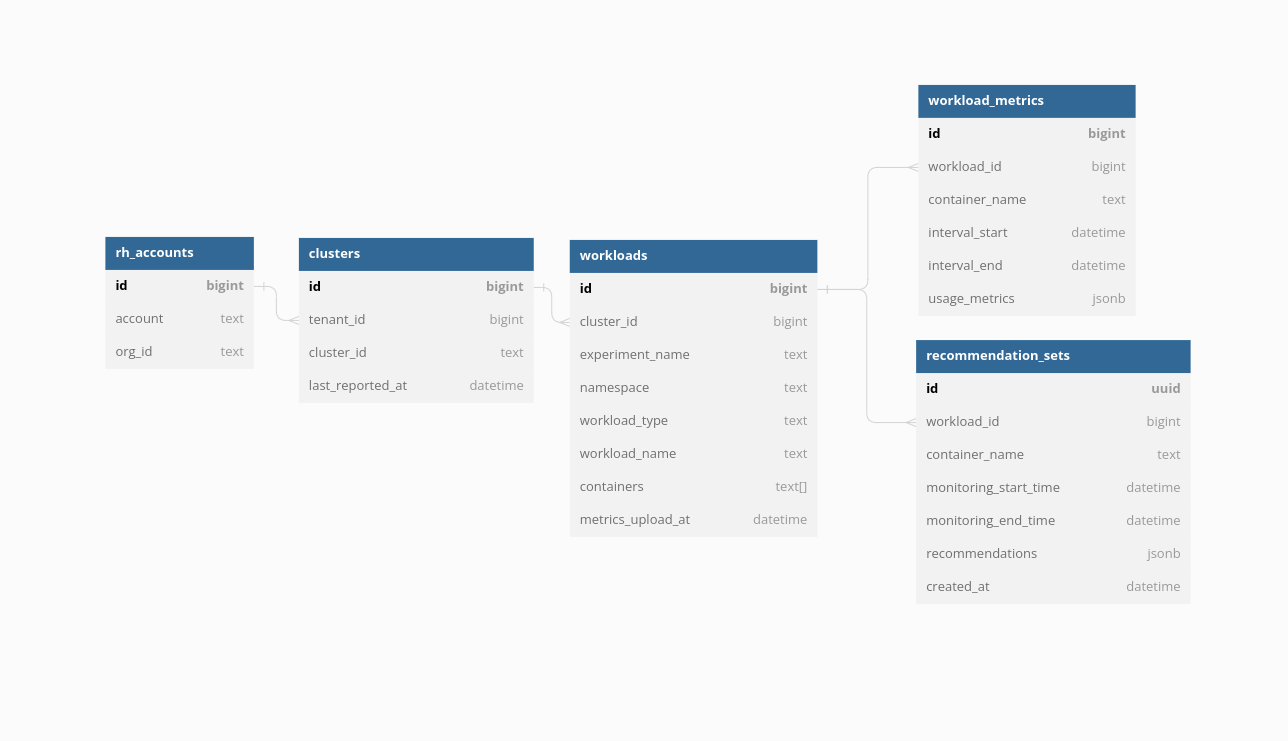
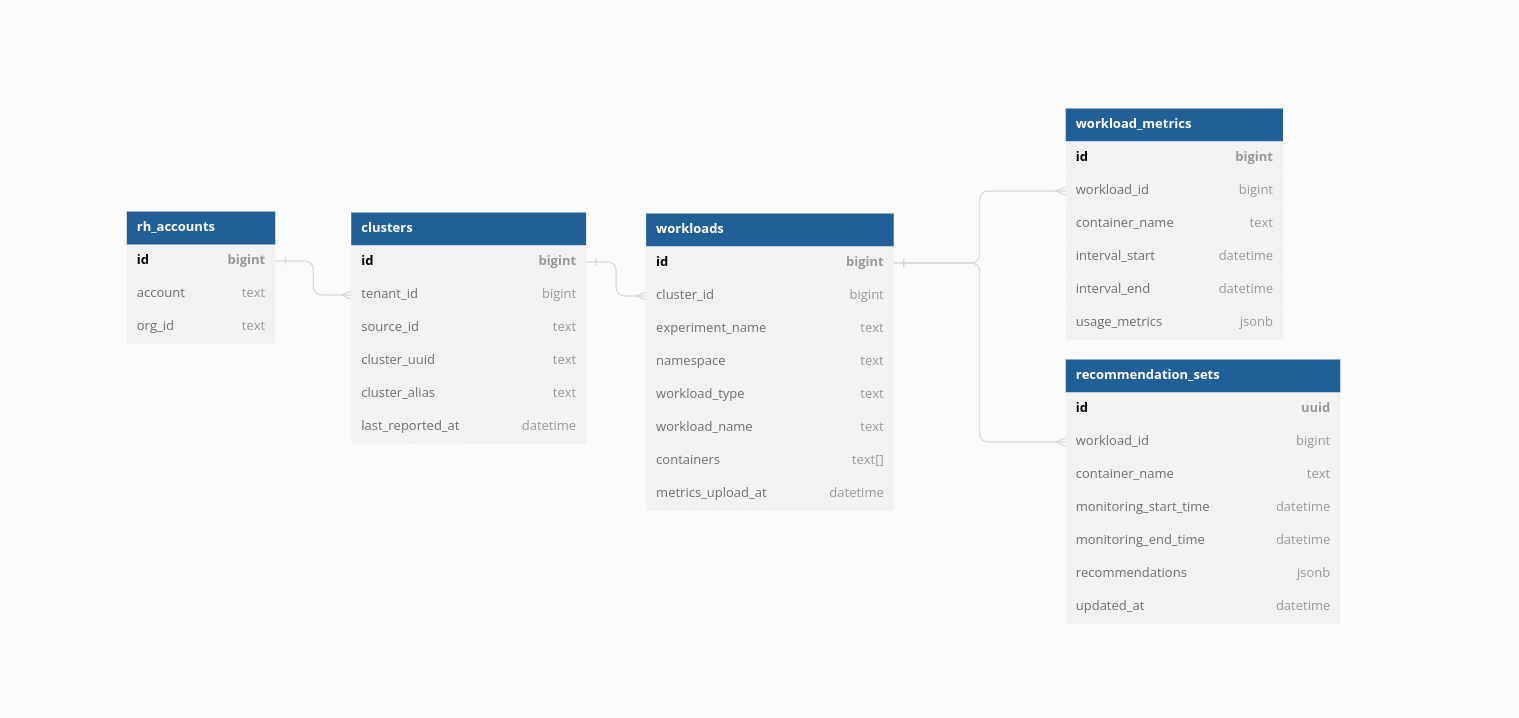
Fixes #RHIROS-1078 - Added new column for source_id

diff --git a/internal/api/handlers.go b/internal/api/handlers.go
@@ -1,10 +1,10 @@
 package api
 
 import (
+	"encoding/json"
 	"net/http"
 	"strconv"
 	"strings"
-	"encoding/json"
 
 	"github.com/google/uuid"
 	"github.com/labstack/echo/v4"
@@ -15,26 +15,26 @@ import (
 )
 
 var variationDummyObject = map[string]interface{}{
-    "limits": map[string]interface{}{
-        "cpu": map[string]interface{}{
-            "amount": 0.02,
-            "format": "cores",
-        },
-        "memory": map[string]interface{}{
-            "amount": 513900,
-            "format": "MiB",
-        },
-    },
-    "requests": map[string]interface{}{
-        "cpu": map[string]interface{}{
-            "amount": 0.01,
-            "format": "cores",
-        },
-        "memory": map[string]interface{}{
-            "amount": 4933.5,
-            "format": "MiB",
-        },
-    },
+	"limits": map[string]interface{}{
+		"cpu": map[string]interface{}{
+			"amount": 0.02,
+			"format": "cores",
+		},
+		"memory": map[string]interface{}{
+			"amount": 513900,
+			"format": "MiB",
+		},
+	},
+	"requests": map[string]interface{}{
+		"cpu": map[string]interface{}{
+			"amount": 0.01,
+			"format": "cores",
+		},
+		"memory": map[string]interface{}{
+			"amount": 4933.5,
+			"format": "MiB",
+		},
+	},
 }
 
 func GetRecommendationSetList(c echo.Context) error {
@@ -117,10 +117,10 @@ func GetRecommendationSetList(c echo.Context) error {
 
 		// Adding dummy variation object
 		var recommendationObject map[string]interface{}
-    	if err := json.Unmarshal(recommendation.Recommendations, &recommendationObject); err != nil {
+		if err := json.Unmarshal(recommendation.Recommendations, &recommendationObject); err != nil {
 			log.Error("unable to unmarshall duration based recommendations", error)
 		}
-		
+
 		longTermSection := recommendationObject["duration_based"].(map[string]interface{})["long_term"].(map[string]interface{})
 		shortTermSection := recommendationObject["duration_based"].(map[string]interface{})["short_term"].(map[string]interface{})
 		mediumTermSection := recommendationObject["duration_based"].(map[string]interface{})["medium_term"].(map[string]interface{})
@@ -129,6 +129,7 @@ func GetRecommendationSetList(c echo.Context) error {
 		longTermSection["variation"] = variationDummyObject
 
 		recommendationData["id"] = recommendation.ID
+		recommendationData["source_id"] = recommendation.Workload.Cluster.SourceId
 		recommendationData["cluster_uuid"] = recommendation.Workload.Cluster.ClusterUUID
 		recommendationData["cluster_alias"] = recommendation.Workload.Cluster.ClusterAlias
 		recommendationData["project"] = recommendation.Workload.Namespace
@@ -190,6 +191,7 @@ func GetRecommendationSet(c echo.Context) error {
 		longTermSection["variation"] = variationDummyObject
 
 		recommendationSlice["id"] = recommendationSet.ID
+		recommendationSlice["source_id"] = recommendationSet.Workload.Cluster.SourceId
 		recommendationSlice["cluster_uuid"] = recommendationSet.Workload.Cluster.ClusterUUID
 		recommendationSlice["cluster_alias"] = recommendationSet.Workload.Cluster.ClusterAlias
 		recommendationSlice["project"] = recommendationSet.Workload.Namespace

diff --git a/internal/model/cluster.go b/internal/model/cluster.go
@@ -12,6 +12,7 @@ type Cluster struct {
 	ID                uint `gorm:"primaryKey;not null;autoIncrement"`
 	TenantID          uint
 	RHAccount         RHAccount `gorm:"foreignKey:TenantID"`
+	SourceId          string    `gorm:"type:text;unique"`
 	ClusterUUID       string    `gorm:"type:text;unique"`
 	ClusterAlias      string    `gorm:"type:text;unique"`
 	LastReportedAt    time.Time
@@ -26,7 +27,7 @@ func (c *Cluster) AfterFind(tx *gorm.DB) error {
 func (c *Cluster) CreateCluster() error {
 	db := database.GetDB()
 	result := db.Clauses(clause.OnConflict{
-		Columns:   []clause.Column{{Name: "tenant_id"}, {Name: "cluster_uuid"}, {Name: "cluster_alias"}},
+		Columns:   []clause.Column{{Name: "tenant_id"}, {Name: "source_id"}, {Name: "cluster_uuid"}, {Name: "cluster_alias"}},
 		DoUpdates: clause.AssignmentColumns([]string{"last_reported_at"}),
 	}).Create(c)
 

diff --git a/internal/processor/report_processor.go b/internal/processor/report_processor.go
@@ -50,7 +50,8 @@ func ProcessReport(msg *kafka.Message) {
 	// Create cluster record(if not present) for incoming archive.
 	cluster := model.Cluster{
 		TenantID:       rh_account.ID,
-		ClusterUUID:    kafkaMsg.Metadata.Source_id,
+		SourceId:       kafkaMsg.Metadata.Source_id,
+		ClusterUUID:    kafkaMsg.Metadata.Cluster_uuid,
 		ClusterAlias:   kafkaMsg.Metadata.Cluster_alias,
 		LastReportedAt: time.Now(),
 	}
@@ -91,6 +92,7 @@ func ProcessReport(msg *kafka.Message) {
 
 			experiment_name := generateExperimentName(
 				kafkaMsg.Metadata.Org_id,
+				kafkaMsg.Metadata.Source_id,
 				kafkaMsg.Metadata.Cluster_uuid,
 				namespace,
 				k8s_object_type,

diff --git a/internal/processor/utils.go b/internal/processor/utils.go
@@ -117,6 +117,6 @@ func findInStringSlice(str string, s []string) int {
 	return -1
 }
 
-func generateExperimentName(org_id, cluster_id, namespace, k8s_object_type, k8s_object_name string) string {
-	return fmt.Sprintf("%s|%s|%s|%s|%s", org_id, cluster_id, namespace, k8s_object_type, k8s_object_name)
+func generateExperimentName(org_id, source_id, cluster_id, namespace, k8s_object_type, k8s_object_name string) string {
+	return fmt.Sprintf("%s|%s|%s|%s|%s|%s", org_id, source_id, cluster_id, namespace, k8s_object_type, k8s_object_name)
 }

diff --git a/internal/model/recommendation_set.go b/internal/model/recommendation_set.go
@@ -59,9 +59,7 @@ func (r *RecommendationSet) GetRecommendationSets(orgID string, orderQuery strin
 
 	var count int64 = 0
 	query.Count(&count)
-	
 	query.Order(orderQuery)
-	
 	err := query.Offset(offset).Limit(limit).Find(&recommendationSets).Error
 
 	return recommendationSets, int(count), err
